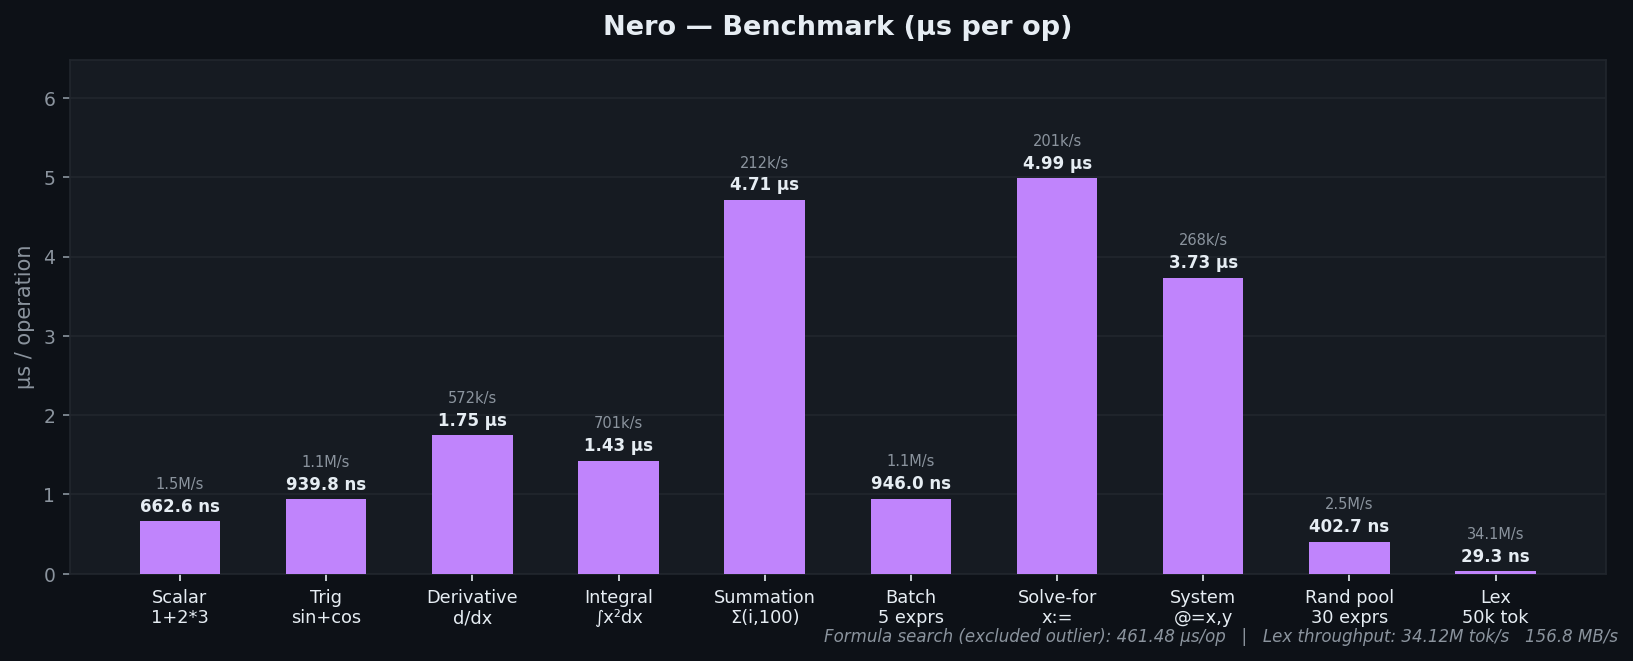
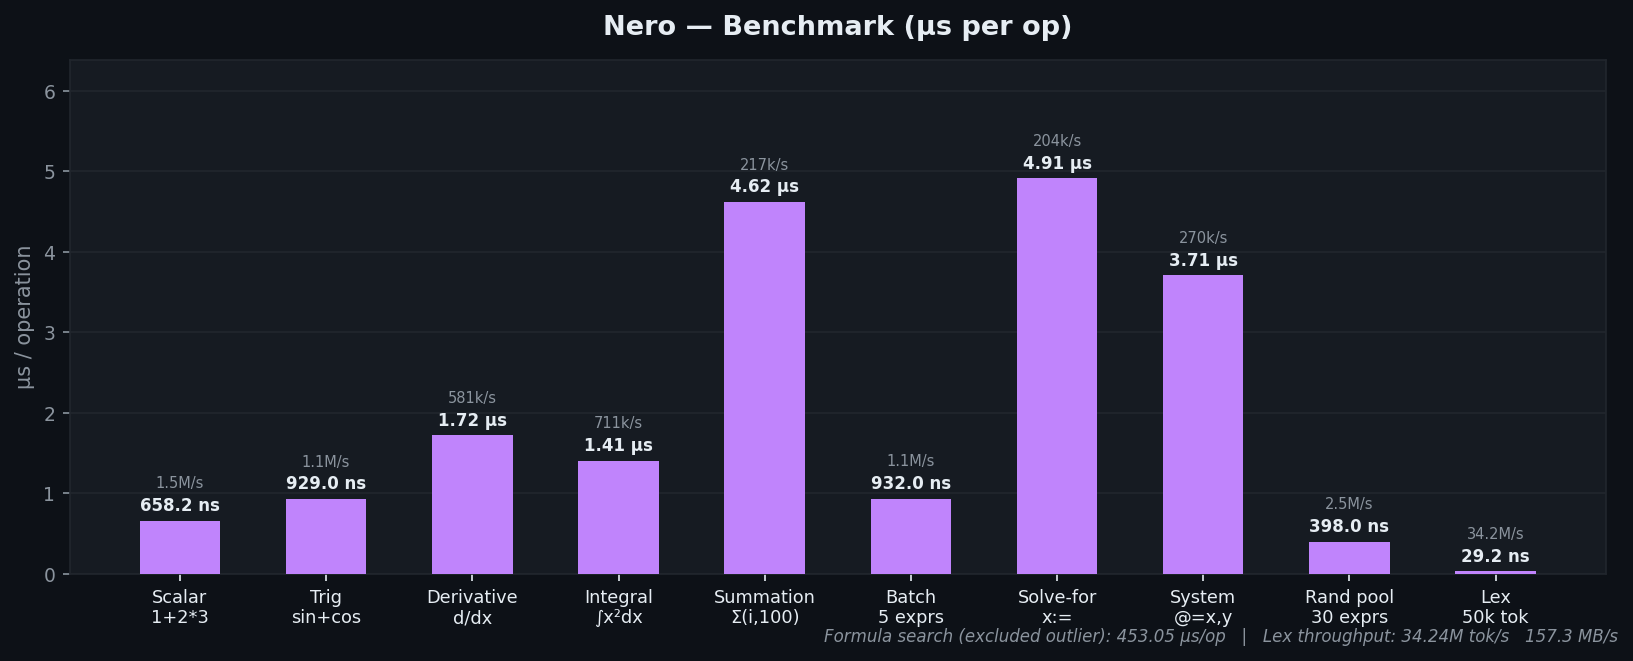
fix: use . paths

diff --git a/README.md b/README.md
@@ -249,17 +249,17 @@ Supported:
 
 | Benchmark      | µs / op    | ops / sec    | op unit |
 | -------------- | ---------- | ------------ | ------- |
-| Scalar         | 0.66 µs    | 1.51 M/s     | op      |
-| Trig           | 0.94 µs    | 1.06 M/s     | op      |
-| Derivative     | 1.75 µs    | 572.1 k/s    | op      |
-| Integral       | 1.43 µs    | 701.3 k/s    | op      |
-| Summation      | 4.71 µs    | 212.2 k/s    | op      |
-| Batch          | 0.95 µs    | 1.06 M/s     | expr    |
-| Formula search | 461.48 µs  | 2.2 k/s      | op      |
-| Solve-for      | 4.99 µs    | 200.5 k/s    | op      |
-| System solver  | 3.73 µs    | 267.7 k/s    | op      |
-| Random pool    | 0.40 µs    | 2.48 M/s     | expr    |
-| Lex            | 0.03 µs    | 34.12 M/s    | token   |
+| Scalar         | 0.66 µs    | 1.52 M/s     | op      |
+| Trig           | 0.93 µs    | 1.08 M/s     | op      |
+| Derivative     | 1.72 µs    | 580.7 k/s    | op      |
+| Integral       | 1.41 µs    | 711.2 k/s    | op      |
+| Summation      | 4.62 µs    | 216.5 k/s    | op      |
+| Batch          | 0.93 µs    | 1.07 M/s     | expr    |
+| Formula search | 453.05 µs  | 2.2 k/s      | op      |
+| Solve-for      | 4.91 µs    | 203.5 k/s    | op      |
+| System solver  | 3.71 µs    | 269.5 k/s    | op      |
+| Random pool    | 0.40 µs    | 2.51 M/s     | expr    |
+| Lex            | 0.03 µs    | 34.24 M/s    | token   |
 
 <details>
 <summary>Raw numbers</summary>
@@ -267,20 +267,20 @@ Supported:
 ```
 === Nero Benchmarks ===
 
-Scalar: 1 + 2 * 3                                           66.26 ms       1509272/s
-Trig: sin(pi/6) + cos(pi/3)                                 46.99 ms       1064019/s
-Derivative: d/dx(x^3) at x=2                                17.48 ms        571935/s
-Integral: int_0^1 x^2 dx                                     7.13 ms        701143/s
-Summation: sum_{i=1}^{100}(i)                               23.56 ms        212221/s
-Batch (5 unit-carrying exprs)                               47.30 ms        211398/s
-Formula search (acceleration target)                       461.48 ms          2167/s
-Solve-for: x^2 - 4 ; x :=                                   14.96 ms        200554/s
-System solver: x+y=5, x-y=1 ; @=x,y                          7.47 ms        267878/s
-Random pool (30 exprs, 1000 rounds)                         12.08 ms         82782/s
+Scalar: 1 + 2 * 3                                           65.82 ms       1519276/s
+Trig: sin(pi/6) + cos(pi/3)                                 46.45 ms       1076465/s
+Derivative: d/dx(x^3) at x=2                                17.22 ms        580830/s
+Integral: int_0^1 x^2 dx                                     7.03 ms        711744/s
+Summation: sum_{i=1}^{100}(i)                               23.09 ms        216547/s
+Batch (5 unit-carrying exprs)                               46.60 ms        214589/s
+Formula search (acceleration target)                       453.05 ms          2207/s
+Solve-for: x^2 - 4 ; x :=                                   14.74 ms        203570/s
+System solver: x+y=5, x-y=1 ; @=x,y                          7.42 ms        269687/s
+Random pool (30 exprs, 1000 rounds)                         11.94 ms         83760/s
 
 --- Lex Throughput ---
-Lex: 50k-token string (all token types)                    732.66 ms           682/s
-  Tokens/sec: 34.12M   Throughput: 156.8 MB/s
+Lex: 50k-token string (all token types)                    730.24 ms           685/s
+  Tokens/sec: 34.24M   Throughput: 157.3 MB/s
 ```
 
 </details>
